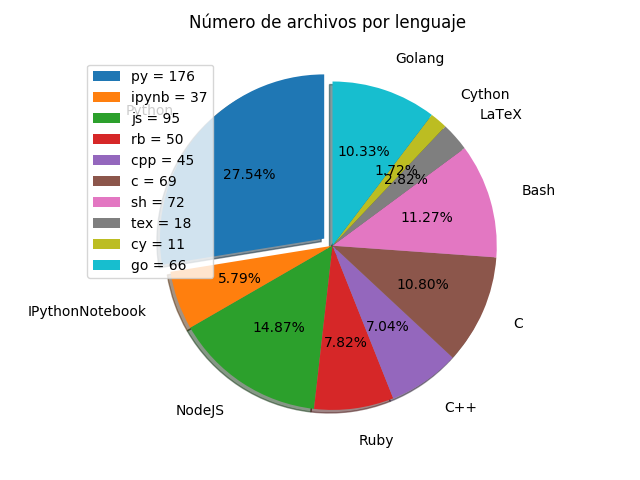
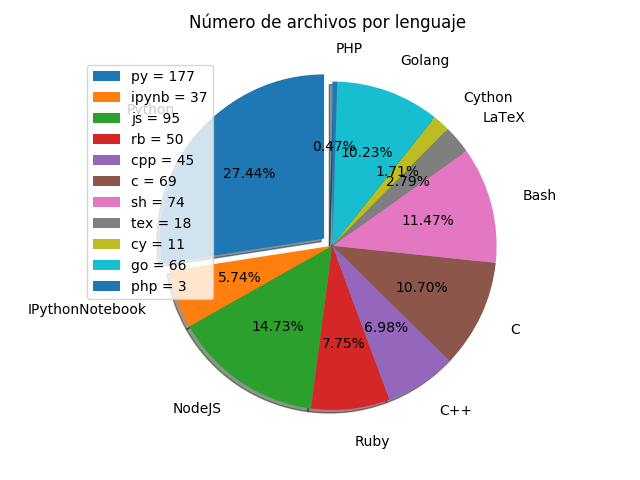
Arrays tutorial added for PHP.

diff --git a/backend/src/tipos/arrays/basico/arrays.php b/backend/src/tipos/arrays/basico/arrays.php
@@ -1,0 +1,111 @@
+<?php
+
+/* Los arreglos en PHP son pares de claves-valor.*/
+
+// Definición en todas las versiones de PHP
+$arreglo = array(
+    0 => "hola",
+);
+
+// Definición a partir de PHP 5.4
+$arreglo = [
+    0 => "hola",
+];
+
+// Acceso a los valores por claves
+echo $arreglo[0], "\n";   // hola
+
+// -----------------------------------------------------------------
+
+/* Amoldamiento de claves
+
+  La clave puede ser una cadena o un entero, aunque se producen los
+    siguientes amoldamientos de claves si es de otro tipo:
+    - Una cadena que contenga un entero válido será convertido a entero,
+       por ejemplo "5" será convertido a entero pero "05" se mantendrá
+       como una cadena.
+    - Un número de punto flotante será convertido a entero desechando
+       su parte decimal.
+    - Un booleano será convertido a entero siendo true -> 1 y false -> 0.
+    - Un valor nulo (null) será amoldado a una cadena vacía ("").
+    - Los arreglos y los objetos no podrán ser utilizados como claves,
+       produciendo una advertencia "Illegal offset type".
+ */
+$array_amoldado = array(
+    1    => "a",
+    "1"  => "b",
+    1.5  => "c",
+    true => "d",
+);
+                            // array(1) {
+var_dump($array_amoldado);  //   [1]=> string(1) "d"
+                            // }
+
+
+// -----------------------------------------------------------------
+
+/* Arrays indexados (sin clave explícita)
+
+  A diferencia de otros lenguajes de programación,
+    PHP no distingue entre arrays indexados o asociativos,
+    así que un array indexado es un array asociativo con
+    claves como enteros empezando por el 0.
+  Podemos establecer un array indexado sin establecer explícitamente
+    las claves numéricas:
+*/
+
+$arreglo_indexado_implicito = [
+	"hola", "que tal", "muy bien", "gracias"
+];
+
+echo $arreglo_indexado_implicito[2], "\n";  // muy bien
+
+/* Si establecemos una clave numérica explícita, las siguientes
+    continuarán el contador:
+*/
+
+$arreglo_indexado_pseudoimplicito = array(
+    "hola",
+    "que tal",
+    15 => "muy bien",
+    "gracias"
+);
+
+echo $arreglo_indexado_pseudoimplicito[16], "\n";  // gracias
+
+// -----------------------------------------------------------------
+
+/* Recorrer un arreglo
+
+  Para recorrer un arreglo fácilmente utilizamos la función foreach(),
+   la cual sólo sirve para arreglos.
+*/
+
+$arreglo_a_recorrer = array("violeta", "azul", "magenta");
+
+// Recorrer los valores
+foreach ($arreglo_a_recorrer as $color) {
+    echo "¿Te gusta el color $color?\n";
+}
+
+// Recorrer pares de claves-valor
+foreach($arreglo_a_recorrer as $clave => $valor) {
+    echo "La clave número $clave corresponde al valor $valor\n";
+}
+
+// -----------------------------------------------------------------
+
+// Contar los elementos de un arreglo
+
+echo count($arreglo_a_recorrer), "\n";
+
+// -----------------------------------------------------------------
+
+// Ordenar los elementos de un arreglo
+
+sort($arreglo_a_recorrer);
+print_r($arreglo_a_recorrer);
+
+// -----------------------------------------------------------------
+
+?>

diff --git a/backend/src/basico/002-ejercicios/002-suma_de_digitos/digits_sum.php b/backend/src/basico/002-ejercicios/002-suma_de_digitos/digits_sum.php
@@ -1,0 +1,26 @@
+<?php
+
+function digits_sum($number) {
+    $response = "";
+    $total = 0;
+    while ($number != 0) {
+        $rest = $number % 10;
+        $response = $response + (string)$rest;
+        $total = $total + $rest;
+        $number = (int)($number/10);
+        if ($number > 0) {
+            $response = $response + " + ";  // Las cadenas se pueden concatenar
+                                            // mediante el operador de suma +
+        }
+    }
+    $response = $response + " = " + (string)$total;
+    return $response;
+}
+
+$num1 = 2345;
+$num2 = 326205;
+
+echo digits_sum($num1), "\n";
+echo digits_sum($num2), "\n";
+
+?>

diff --git a/backend/src/basico/002-ejercicios/002-suma_de_digitos/digits_sum.go b/backend/src/basico/002-ejercicios/002-suma_de_digitos/digits_sum.go
@@ -19,7 +19,7 @@ func digits_sum(number int) (string) {
         number = int(number/10)
         if number > 0 {
             response += " + " // Las cadenas se pueden
-        }        // concatenar con el operador de suma
+        }                     // concatenar con el operador de suma
     }
     response += " = " + strconv.Itoa(total)
     return response

diff --git a/scripts/stats/backend_lang_files_perc_chart.py b/scripts/stats/backend_lang_files_perc_chart.py
@@ -37,7 +37,8 @@ labels_map = {
     "sh": "Bash",
     "tex": "LaTeX",
     "cy": "Cython",
-    "go": "Golang"
+    "go": "Golang",
+    "php": "PHP",
 }
 
 total = sum(stats.values())

diff --git a/backend/src/basico/002-ejercicios/001-mayor_de_dos_numeros/higher_number.php b/backend/src/basico/002-ejercicios/001-mayor_de_dos_numeros/higher_number.php
@@ -1,0 +1,12 @@
+<?php
+
+function mayor($a, $b) {
+    if ($a > $b) {
+    	return $a;
+    }
+    return $b;
+}
+
+echo mayor(3, 5), "\n";  // Concatenación de cadenas
+
+?>

diff --git a/backend/src/basico/001-hola_mundo/hello_world.php b/backend/src/basico/001-hola_mundo/hello_world.php
@@ -1,0 +1,11 @@
+<?php
+
+// Comentario de una línea
+
+/* Comentario de
+varias líneas
+*/
+
+echo "Hola mundo\n"
+
+?>

diff --git a/backend/src/basico/README.md b/backend/src/basico/README.md
@@ -1,13 +1,13 @@
 
 ## Básico
-- [Hola mundo y comentarios](https://github.com/mondeja/fullstack/tree/master/backend/src/basico/001-hola_mundo) (py, js, rb, cpp, c, go, sh, cmd, ipynb, asm)
+- [Hola mundo y comentarios](https://github.com/mondeja/fullstack/tree/master/backend/src/basico/001-hola_mundo) (py, js, rb, cpp, c, go, php, sh, cmd, ipynb, asm)
 - [Flujo de ejecución](https://github.com/mondeja/fullstack/tree/master/backend/src/basico/004-flujo_de_ejecucion) (c, go, sh)
 
 _____________
 
 ### [Ejercicios](https://github.com/mondeja/fullstack/tree/master/backend/src/basico/002-ejercicios/)
-- [Mayor de dos números](https://github.com/mondeja/fullstack/tree/master/backend/src/basico/002-ejercicios/001-mayor_de_dos_numeros) (py, js, rb, c, go, cpp, sh)
-- [Suma de los dígitos de un número](https://github.com/mondeja/fullstack/tree/master/backend/src/basico/002-ejercicios/002-suma_de_digitos) (py, js, rb, cpp, go, sh)
+- [Mayor de dos números](https://github.com/mondeja/fullstack/tree/master/backend/src/basico/002-ejercicios/001-mayor_de_dos_numeros) (py, js, rb, c, go, cpp, php, sh)
+- [Suma de los dígitos de un número](https://github.com/mondeja/fullstack/tree/master/backend/src/basico/002-ejercicios/002-suma_de_digitos) (py, js, rb, cpp, go, php, sh)
 - [Pangramas](https://github.com/mondeja/fullstack/tree/master/backend/src/basico/002-ejercicios/003-pangramas) (py, js, rb, go, cpp)
 - [Convertir caracter a ASCII y viceversa](https://github.com/mondeja/fullstack/tree/master/backend/src/basico/002-ejercicios/004-valor_ascii) (py, rb, js, go, cpp, sh)
 

diff --git a/README.md b/README.md
@@ -15,7 +15,7 @@ ________________________________________________________________
 
 #### Entorno de ejecución/procesamiento
 - [Entornos virtuales](https://github.com/mondeja/fullstack/tree/master/backend/src/010-virtualenv) (py, js, rb)
-- [Información y configuración](https://github.com/mondeja/fullstack/tree/master/backend/src/005-entorno_de_ejecucion) (py, ipynb, js, rb, sh, c/cpp, go, tex)
+- [Información y configuración](https://github.com/mondeja/fullstack/tree/master/backend/src/005-entorno_de_ejecucion) (py, ipynb, js, rb, c/cpp, go, sh, php, tex)
 - [Máquinas virtuales](https://github.com/mondeja/fullstack/tree/master/backend/src/018-maquinas_virtuales) (sh)
 
 #### Utilidades
@@ -38,7 +38,6 @@ ________________________________________________________________
 - [Concurrencia](https://github.com/mondeja/fullstack/tree/master/backend/src/029-concurrencia) (py, go, sh, c, cpp)
 - [Caché](https://github.com/mondeja/fullstack/tree/master/backend/src/031-cache) (py)
 - [Extensiones en C](https://github.com/mondeja/fullstack/tree/master/backend/src/022-extensiones_en_c) (py, c, cy, cty, cpy)
-- [Tests de rendimiento entre lenguajes](https://github.com/mondeja/shperfsuite/) (c, cpp, py, cy, js, go, rb, sh)
 
 #### Herramientas de desarrollo
 - [Testing](https://github.com/mondeja/fullstack/tree/master/backend/src/026-testing) (py, go, js, rb, sh)

diff --git a/backend/src/basico/001-hola_mundo/README.md b/backend/src/basico/001-hola_mundo/README.md
@@ -3,6 +3,7 @@
 ___________________________
 
 #### Python
+
 ```python
 if __name__ == "__main__":
     ...
@@ -56,6 +57,7 @@ end
 ___________________________
 
 #### Bash
+
 ```bash
 if [[ "${BASH_SOURCE[0]}" == "${0}" ]]; then
   ...
@@ -68,8 +70,8 @@ fi
 ___________________________
 
 #### C++ / C
-```cpp
 
+```cpp
 int main() {
     ...
 }
@@ -95,6 +97,18 @@ func main() {
 
 ___________________________
 
+#### PHP
+```php
+<?php
+...
+?>
+```
+
+- Ejecutar: `php nombre_del_archivo.php`
+
+___________________________
+
+
 #### LaTeX
 ```latex
 \documentclass{article}
@@ -111,7 +125,7 @@ ___________________________
 
 _____________________________
 
-#### Batch
+#### Bash
 - Ejecutar: `archivo` (sin la extensión)
 
 _____________________________
@@ -124,7 +138,7 @@ _start:
     ...
 ```
 
-- Compilar
+- Compilar:
 ```bash
 nasm -f elf64 -o hello.o hello_world.asm
 ld -o hello hello.o

diff --git a/backend/src/tipos/README.md b/backend/src/tipos/README.md
@@ -22,7 +22,7 @@ _____________________
 _____________________
 
 ### [Arrays](https://github.com/mondeja/fullstack/tree/master/backend/src/tipos/arrays)
-- [Básico](https://github.com/mondeja/fullstack/tree/master/backend/src/tipos/arrays/basico) (py, cpp, js, rb, sh, go)
+- [Básico](https://github.com/mondeja/fullstack/tree/master/backend/src/tipos/arrays/basico) (py, cpp, js, rb, go, php, sh)
 - [Asociativos](https://github.com/mondeja/fullstack/tree/master/backend/src/tipos/arrays/asociativos)
     + [Map/Dict](https://github.com/mondeja/fullstack/tree/master/backend/src/tipos/arrays/asociativos/map_dict) (go, sh)
     + [Estructuras (struct, object...)](https://github.com/mondeja/fullstack/tree/master/backend/src/tipos/arrays/asociativos/struct) (c, sh, py, rb)

diff --git a/backend/src/005-entorno_de_ejecucion/php/install.md b/backend/src/005-entorno_de_ejecucion/php/install.md
@@ -1,0 +1,4 @@
+## Instalación de PHP
+Para instalar el intérprete por consola de comandos para PHP ejecutamos (Linux/Mac): `apt-get install libapache2-mod-php`.
+
+Luego podemos comprobar donde se ha guardado con `whereis php`, aunque lo más normal es que se coloque el binario en el PATH, por lo que para ejecutar simplemente: `php nombre_del_archivo.php`.
